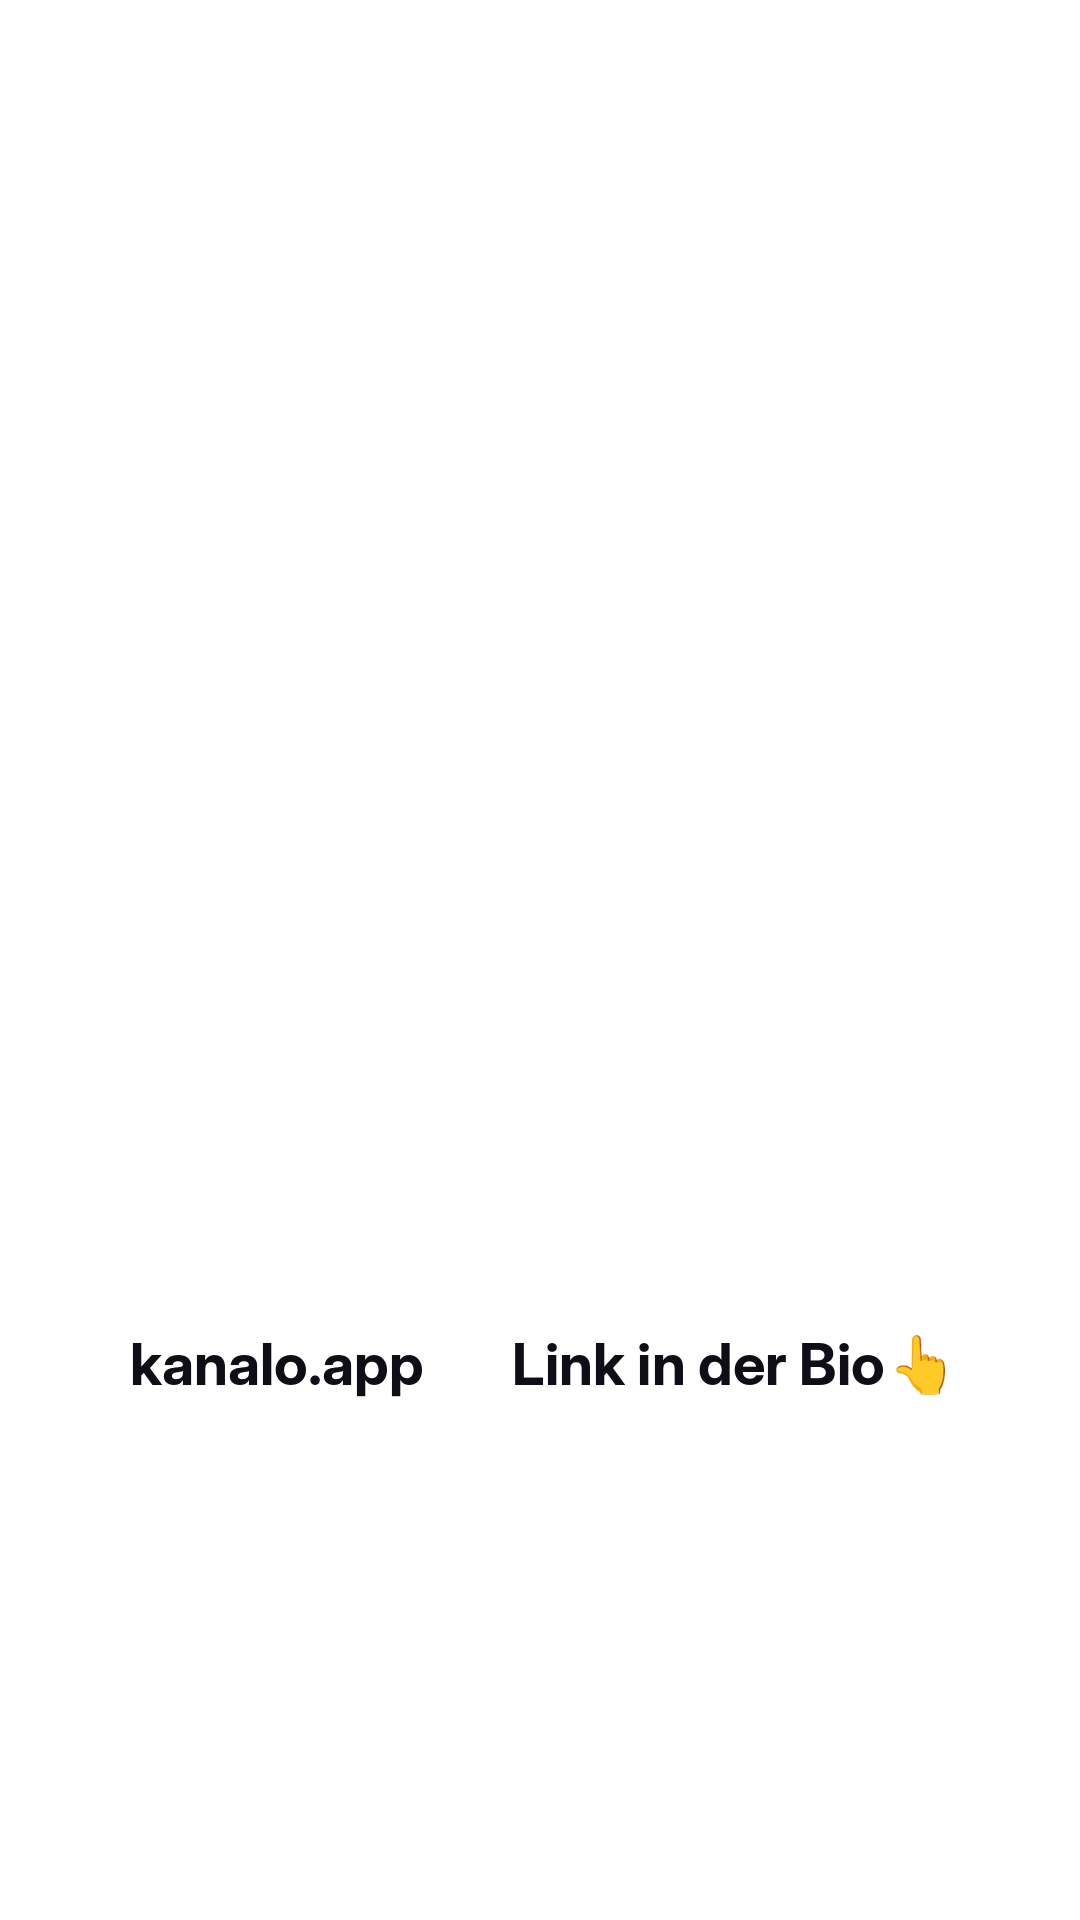
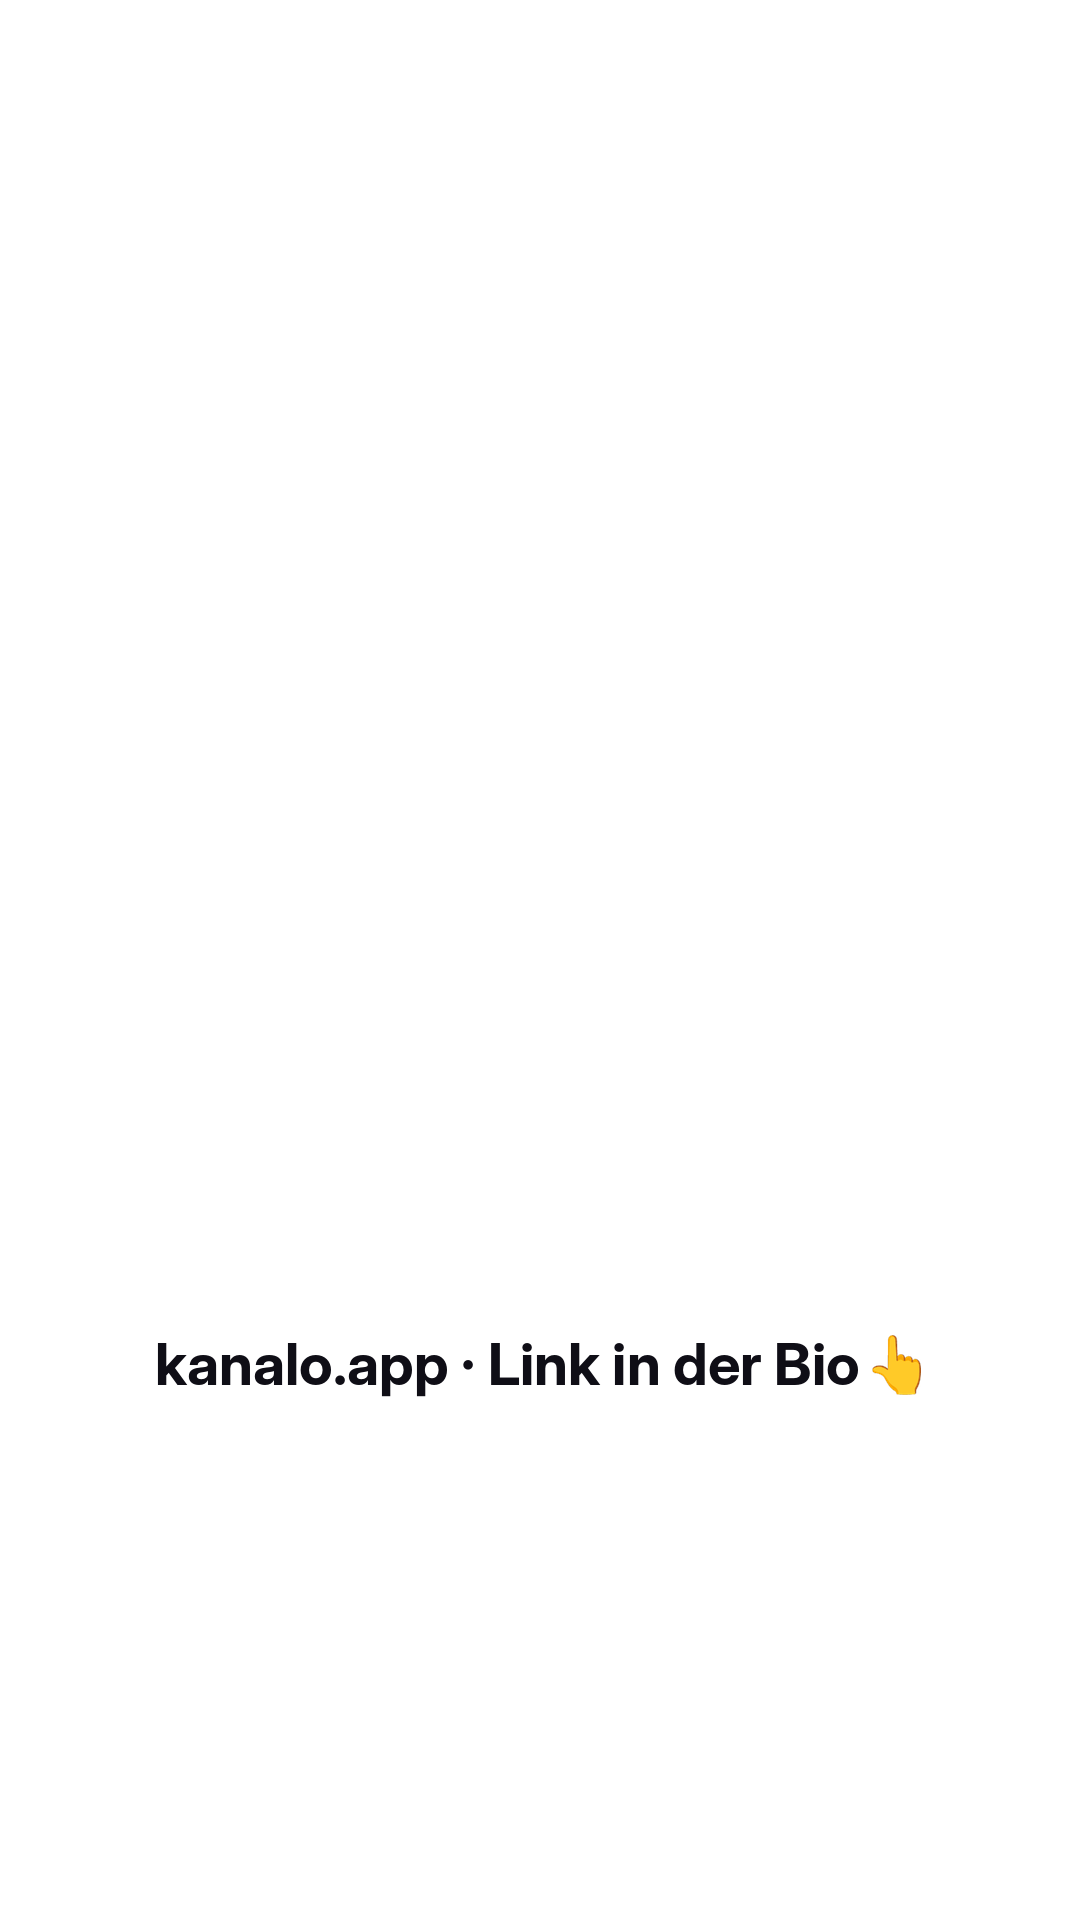
Fix CTA arrow glyph
Claude-Session: https://claude.ai/code/session_01Nfw8GqVW5u5Dp8ws2maeUt

Changed region(s): [[0.1222, 0.6875, 0.8861, 0.75]]

diff --git a/pass_overlays.py b/pass_overlays.py
@@ -17,11 +17,11 @@ PAY = {
     "de": ["Kanalo Pro. Für immer gratis.", "Nur die ersten 100."],
 }
 CTA = {
-    "en": ["kanalo.app → link in bio 👆"],
-    "nl": ["kanalo.app → link in bio 👆"],
-    "fr": ["kanalo.app → lien en bio 👆"],
-    "es": ["kanalo.app → enlace en la bio 👆"],
-    "de": ["kanalo.app → Link in der Bio 👆"],
+    "en": ["kanalo.app · link in bio 👆"],
+    "nl": ["kanalo.app · link in bio 👆"],
+    "fr": ["kanalo.app · lien en bio 👆"],
+    "es": ["kanalo.app · enlace en la bio 👆"],
+    "de": ["kanalo.app · Link in der Bio 👆"],
 }
 
 if __name__ == "__main__":
